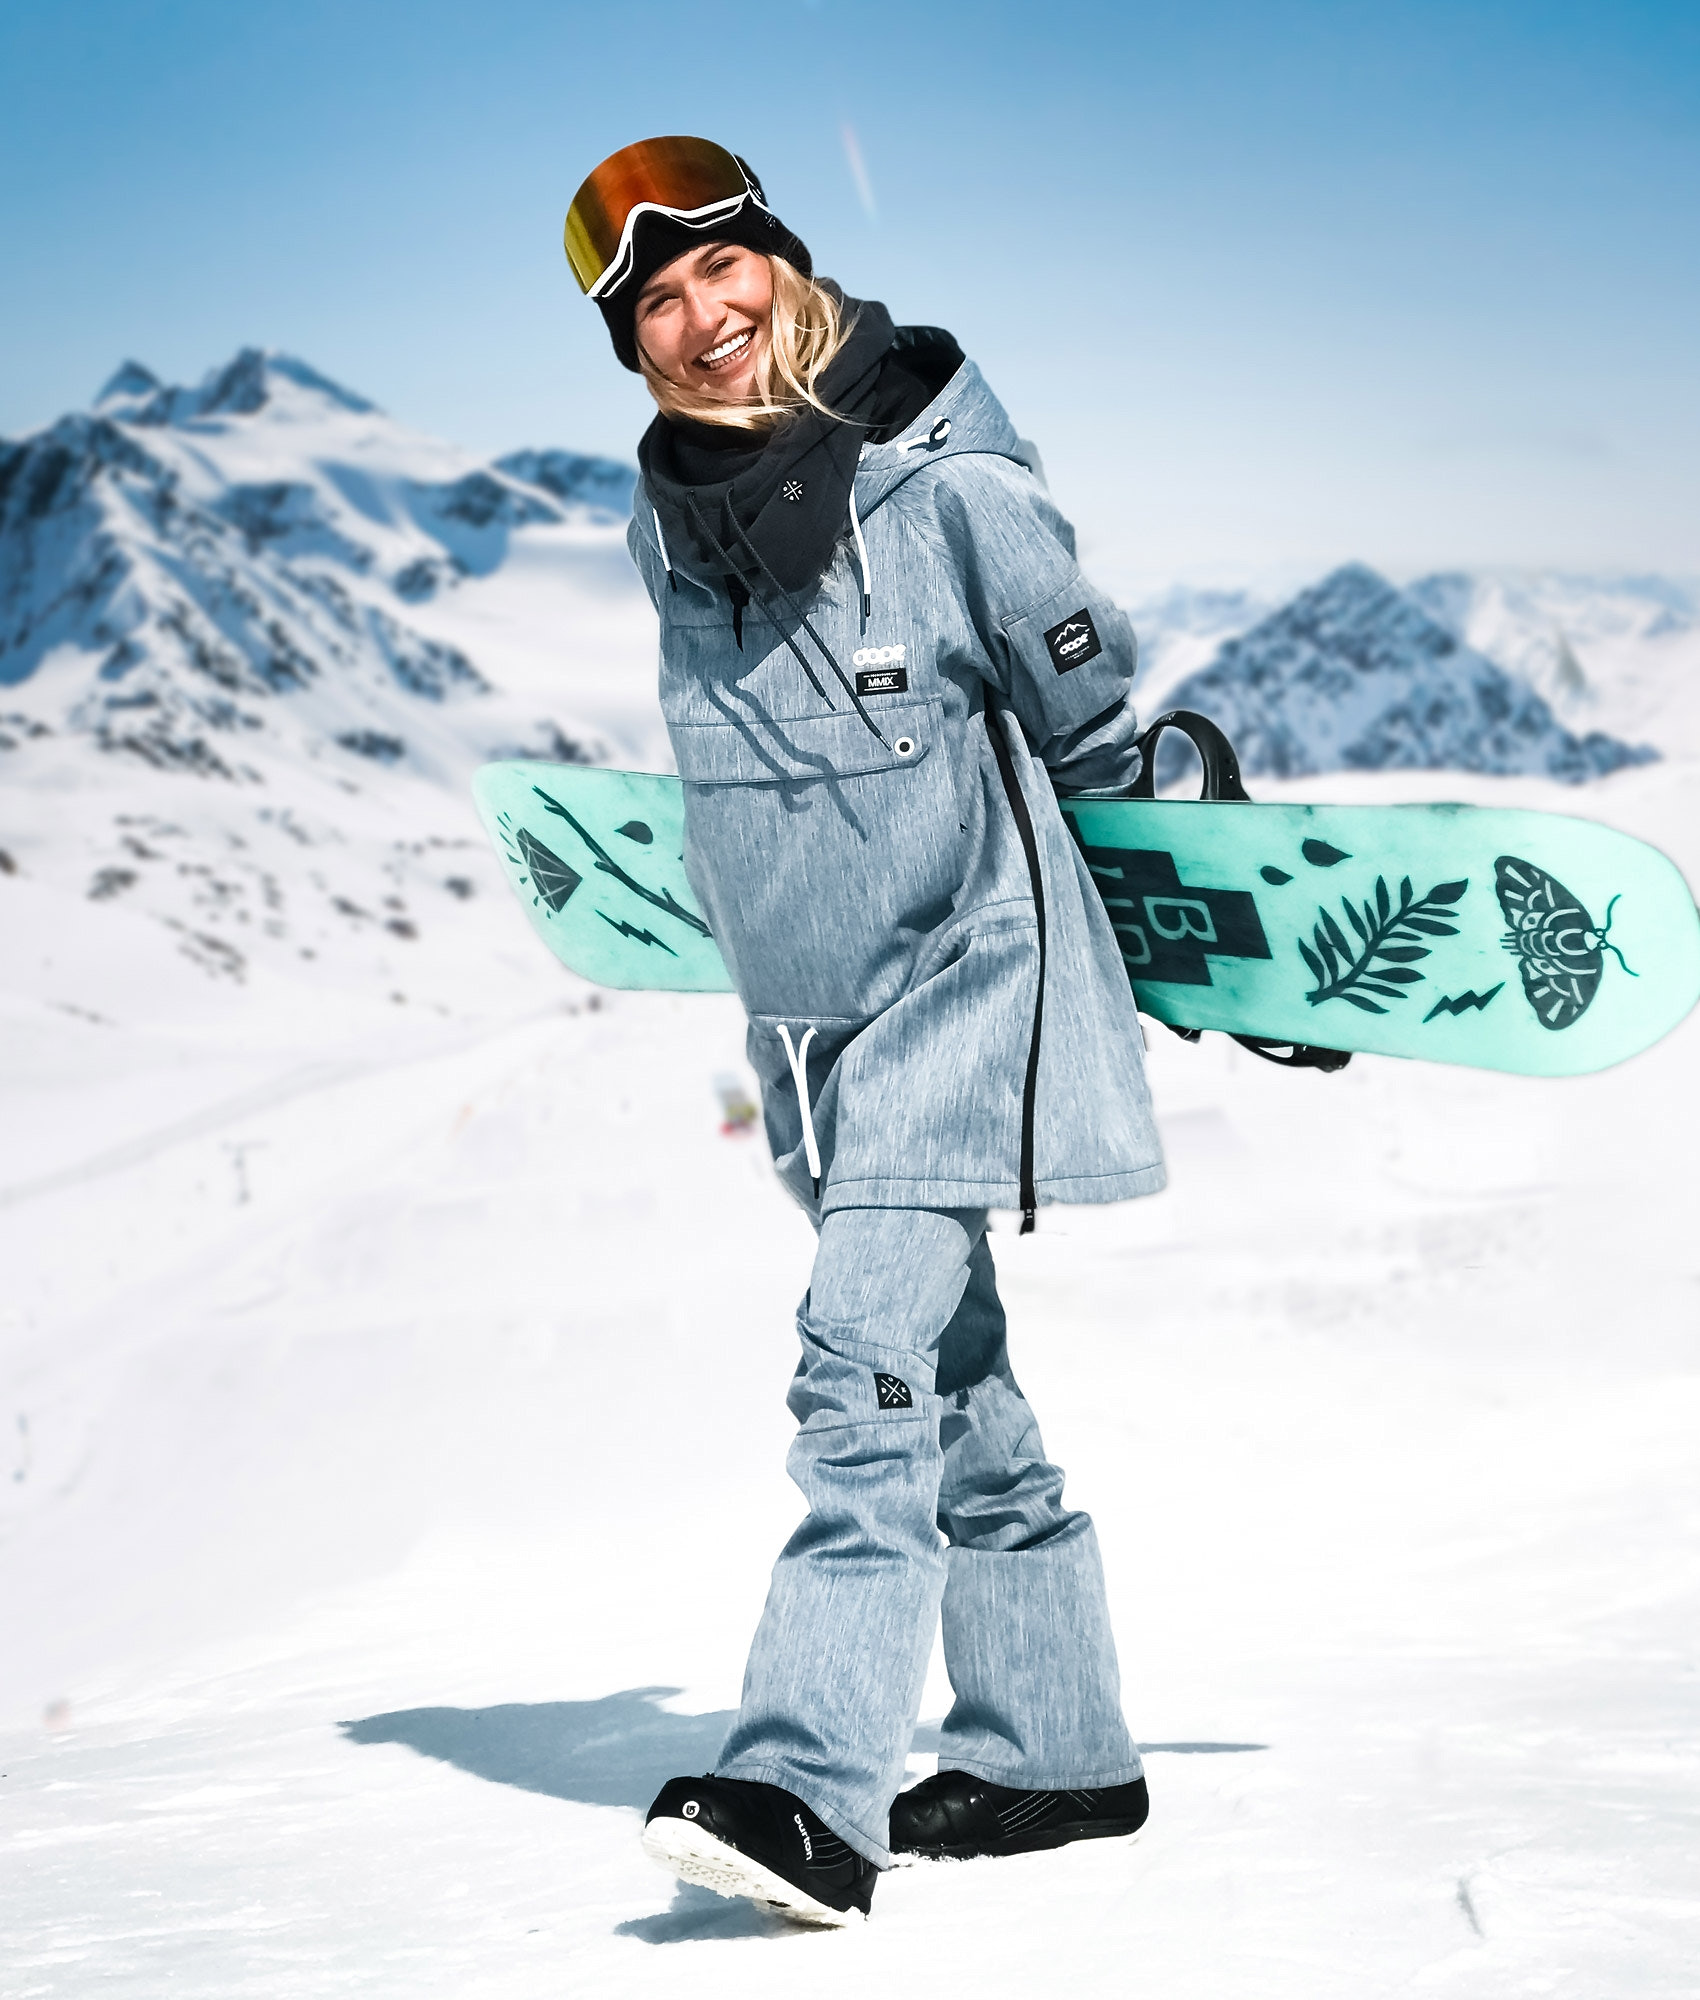
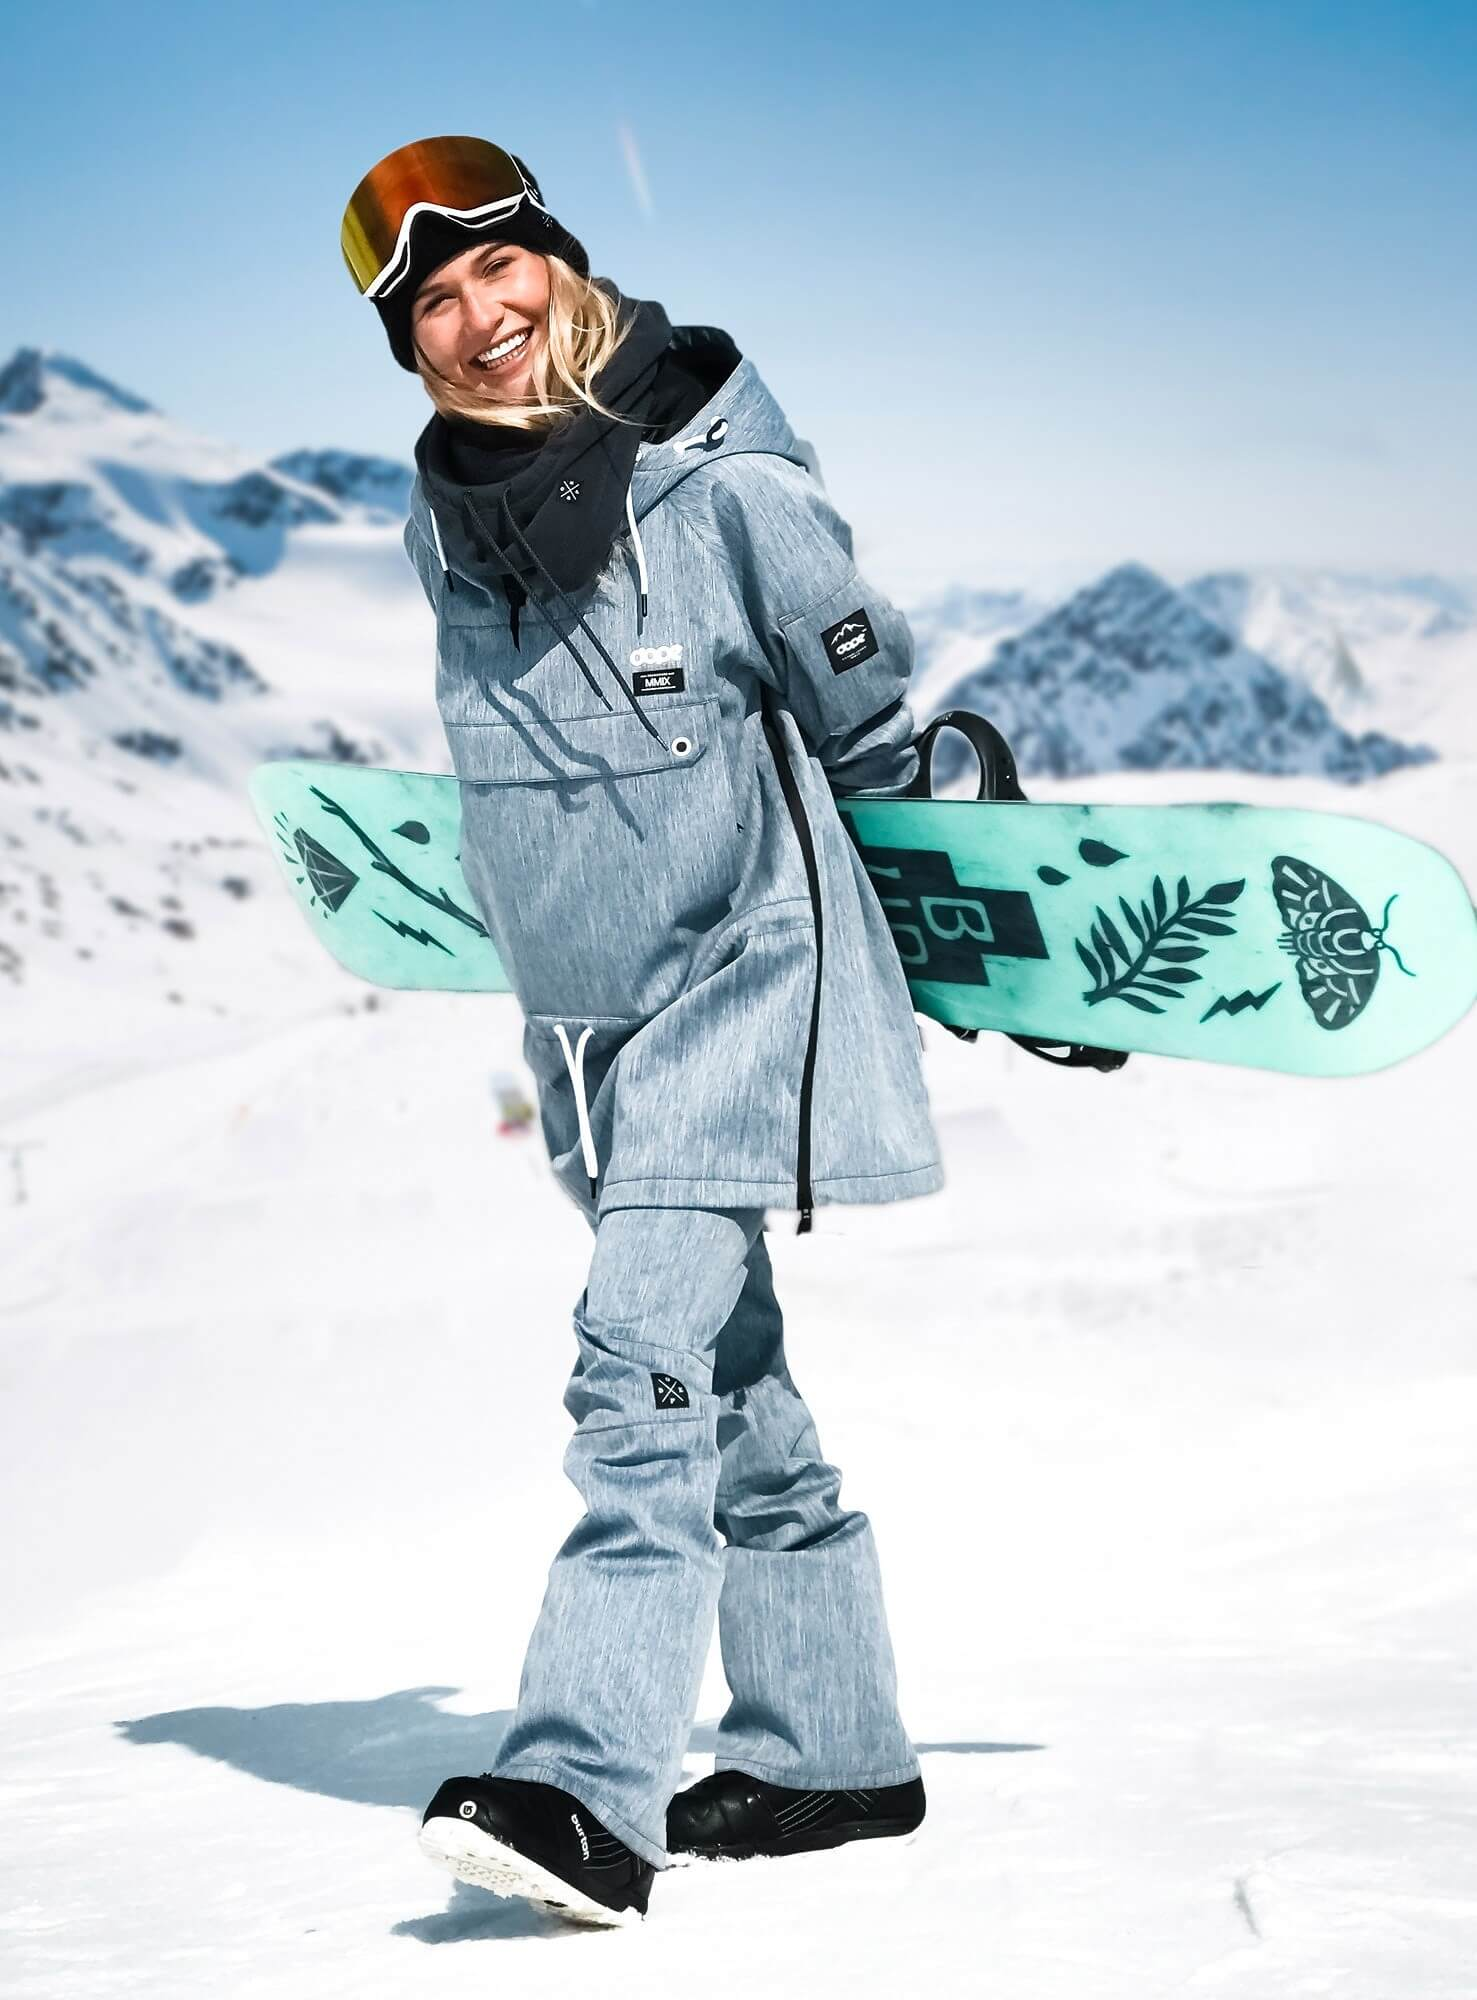
'our products' section started, images optimized

diff --git a/css/styles.css b/css/styles.css
@@ -1,11 +1,11 @@
 html {
   font-size: 62.5%;
+  scroll-behavior: smooth;
 }
 
 body {
   margin: 0;
   font-family: "Poppins", sans-serif;
-  text-align: center;
   --height: 100vh;
 }
 
@@ -16,6 +16,10 @@ h1 {
   margin: 0;
   display: inline-block;
   color: white;
+}
+
+h2 {
+  font-size: 4rem;
 }
 
 h3 {
@@ -51,6 +55,7 @@ header {
 
 .brand {
   text-decoration: none;
+  text-transform: uppercase;
 }
 
 .brand p {
@@ -76,6 +81,7 @@ header {
   background-size: cover;
   background-position: center;
   position: relative;
+  text-align: center;
 }
 
 .hero-text {
@@ -106,9 +112,12 @@ header {
   background-color: rgba(27, 27, 27, 0.7);
 }
 
-.our-service-container {
+.container {
   width: 80%;
   margin: 0 auto;
+}
+
+.our-service-container {
   margin-top: calc(var(--height) * 0.2);
   display: flex;
   justify-content: space-evenly;
@@ -116,7 +125,7 @@ header {
 
 .our-service-card {
   width: 30%;
-  
+  text-align: center;
 }
 
 .our-service-card img {
@@ -125,6 +134,46 @@ header {
 
 .our-service-p {
   font-size: 1.5rem;
+}
+
+#our-products {
+  text-align: center;
+}
+
+.our-products-container {
+  display: flex;
+  flex-direction: column;
+  justify-content: space-evenly;
+}
+
+#our-products h2:nth-child(2) {
+  text-align: left;
+  font-weight: 300;
+}
+
+.our-products-card {
+  background-size: cover;
+  background-position: center;
+  background-repeat: no-repeat;
+  width: 22%;
+  height: calc(var(--height) * 0.5);
+  border-radius: 7px;
+  margin: 10px 0;
+}
+
+.our-products-card:nth-of-type(1) {
+  background-image: linear-gradient(rgba(0, 0, 0, 0.3), rgba(0, 0, 0, 0.3)),
+    url("/images/person-doing-snowboarding.jpg");
+}
+
+.our-products-card:nth-of-type(2) {
+  background-image: linear-gradient(rgba(0, 0, 0, 0.3), rgba(0, 0, 0, 0.3)),
+    url("/images/woman-snow-outfit.jpg");
+}
+
+.our-products-card:nth-of-type(3) {
+  background-image: linear-gradient(rgba(0, 0, 0, 0.3), rgba(0, 0, 0, 0.3)),
+    url("/images/man-wearing-blue-jacket.jpg");
 }
 
 ::selection {

diff --git a/index.html b/index.html
@@ -2,13 +2,22 @@
 <html lang="en">
   <head>
     <meta charset="UTF-8" />
+    <!--For SEO optimization-->
+    <meta
+      name="description"
+      content="SnowHero is a store specialized in winter clothing and winter sports clothing"
+    />
+    <!--SEO optimization, web crawlers-->
+    <meta name="robots" content="index,follow" />
     <meta name="viewport" content="width=device-width, initial-scale=1.0" />
     <meta http-equiv="X-UA-Compatible" content="ie=edge" />
+    <link rel="icon" href="/favicon.ico" />
     <link rel="stylesheet" href="/css/styles.css" />
     <link
       href="https://fonts.googleapis.com/css?family=Open+Sans:300,600|Poppins:300,400,600&display=swap"
       rel="stylesheet"
     />
+
     <title>SnowHero</title>
   </head>
 
@@ -34,12 +43,12 @@
           Erase the word Limit from your personal dictionary. In SnowHero you
           can find all the equipment you need for your next adventure.
         </p>
-        <a href="#" class="explore-btn">Explore our products</a>
+        <a href="#our-products" class="explore-btn">Explore our products</a>
       </div>
     </section>
 
     <section>
-      <div class="our-service-container">
+      <div class="our-service-container container">
         <div class="our-service-card">
           <img src="images/delivery.svg" alt="A car" />
           <h3>Easy delivery</h3>
@@ -63,8 +72,16 @@
         </div>
       </div>
     </section>
+
+    <section id="our-products" class="container">
+      <h2>Our products</h2>
+      <h2>Jackets</h2>
+      <div class="our-products-container">
+        <a href="#" class="our-products-card"></a>
+        <a href="#" class="our-products-card"></a>
+        <a href="#" class="our-products-card"></a>
+      </div>
+    </section>
   </body>
 </html>
 
-<!-- Optimize images
-Delete trash -->
